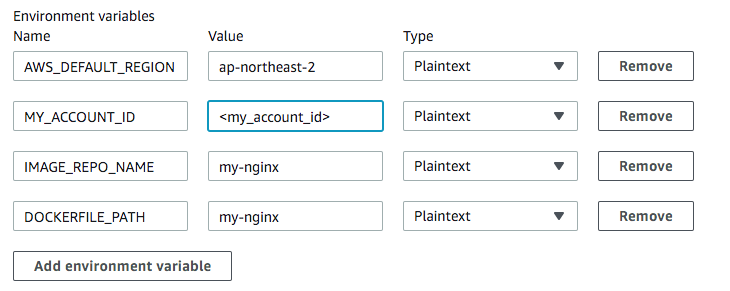
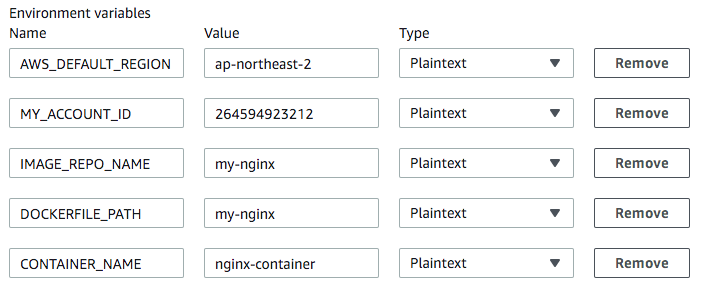
edit commit

diff --git a/deploy-ecs/README.md b/deploy-ecs/README.md
@@ -8,18 +8,6 @@
 
 ## 수정 사항
 
-- buildspec.yaml파일의 단일화를 위해 Task의 컨테이너 이름을 image repo name으로 수정 (Service를 지우고 새로 생성)
-  - nginx-container -> my-container
-  - tomcat-container -> my-tomcat
-
-1. web-task
-
-![task-defi1](../images/nginx-defi.png)
-
-2. was-task
-
-![task-defi2](../images/tomcat-defi.png)
-
 - 결과 확인을 위해 task의 수 조절
   - web-task: 3 -> 2
   - was-task: 4 -> 2
@@ -70,6 +58,7 @@
 #### 고려 사항
 
 - nginx와 tomcat이 하나의 파이프라인에서 동작해야 하기 때문에 두개의 build setting이 필요
+- account id에 대해서는 Plaintext보다는 parameter store나 secret manager를 활용하는 것을 권고함
 
 #### Nginx
 
@@ -84,6 +73,7 @@
   - MY_ACCOUNT_ID: <my_account_id> (계정 넘버를 기입)
   - IMAGE_REPO_NAME: my-nginx
   - DOCKERFILE_PATH: my-nginx
+  - CONTAINER_NAME: nginx-container
 
 ![build-env](../images/codebuild_env.png)
 
@@ -102,6 +92,7 @@
   - MY_ACCOUNT_ID: <my_account_id> (계정 넘버를 기입)
   - IMAGE_REPO_NAME: my-tomcat
   - DOCKERFILE_PATH: my-tomcat
+  - CONTAINER_NAME: tomcat-container
 - 나머지는 Default
 
 
@@ -188,11 +179,54 @@
 
 ![build-env](../images/pipeline-6.png)
 
-###### result
+###### confirm
 
 ![build-env](../images/pipeline-7.png)
 
 ## Test
 
-### 준비 상황
+- git과 관련된 flow는 다음 [예제](https://github.com/toule/aws-cicd-sample/tree/master/django)를 참조
+- IAM User를 소유하고 있고 자격증명을 완료한 상황(aws configure)
+- IAM 자격증명이 안되는 경우 codecommit에 대한 credential은 있어야함
 
+### Repository Set
+
+```bash
+git init
+git remote add origin <my-repository-address>
+git remote get-url --all origin
+```
+
+### Git Commit
+
+```bash
+git add .
+git commit -m "inital commit"
+git push origin master
+```
+
+### Result
+
+#### Rolling Update
+
+- ECS Rolling Update (task버전에 업데이트 되었으며 현재 이전버전과 함께 같이 동작 중)
+
+![result1](../images/ecs-result-1.png)
+
+![result2](../images/ecs-result-2.png)
+
+![result3](../images/ecs-result-3.png)
+
+- Load Balancer에서는 이전 버전의 Task를 Draining
+
+![result4](../images/ecs-result-4.png)
+
+![result5](../images/ecs-result-5.png)
+
+#### Pipeline
+
+![result-pipeline](../images/result-pipeline.png)
+
+#### Result
+
+![result-pipeline](../images/domain-result.png)
